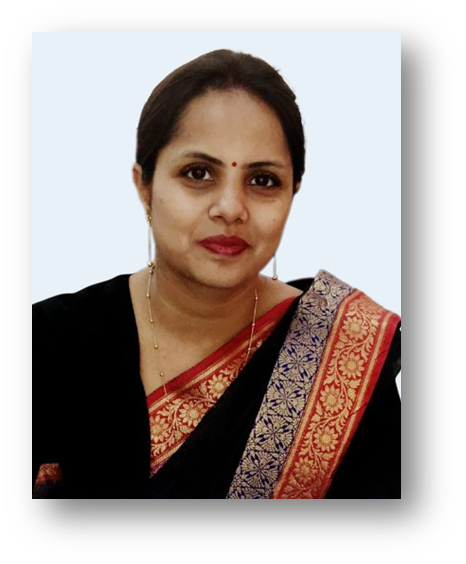
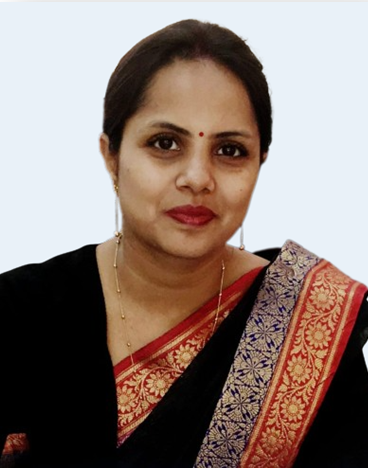
some special changes

diff --git a/src/components/Staff.css b/src/components/Staff.css
@@ -36,6 +36,7 @@
     /* width: 280px; */
     /* height: 320px; */
     width: 100%;
+    height: 75%;
     
 }
 
@@ -43,7 +44,7 @@
     /* padding: 1rem; */
     /* background-color: rgb(249, 221, 168); */
     width: 30%;
-    object-fit: cover;
+    object-fit:cover;
     
 }
 
@@ -53,6 +54,7 @@
     padding: 2rem;
      */
      width: 100%;
+     height: 75%;
 }
 
 @media screen and (max-width: 750px) {

diff --git a/src/components/Staff.js b/src/components/Staff.js
@@ -1,7 +1,7 @@
 import React from "react";
 import './Staff.css';
 import firststaff from "../images/Nistha_mam.png";
-import secondstaff from "../images/kSrikantsir.jpg"
+import secondstaff from "../images/staff2.jpg"
 import NavBar from "./NavBar";
 import Footer from "./footer";
 

diff --git a/src/components/StudentsTeam.css b/src/components/StudentsTeam.css
@@ -34,6 +34,7 @@ margin-bottom: 0.5rem;
 }
 .student1-img img{
     width: 100%;
+    height: 75%;
    
     }
     
@@ -47,6 +48,7 @@ margin-bottom: 0.5rem;
     }
     .student2-img img{
         width: 100%;
+        height: 75%;
         
         }
 
